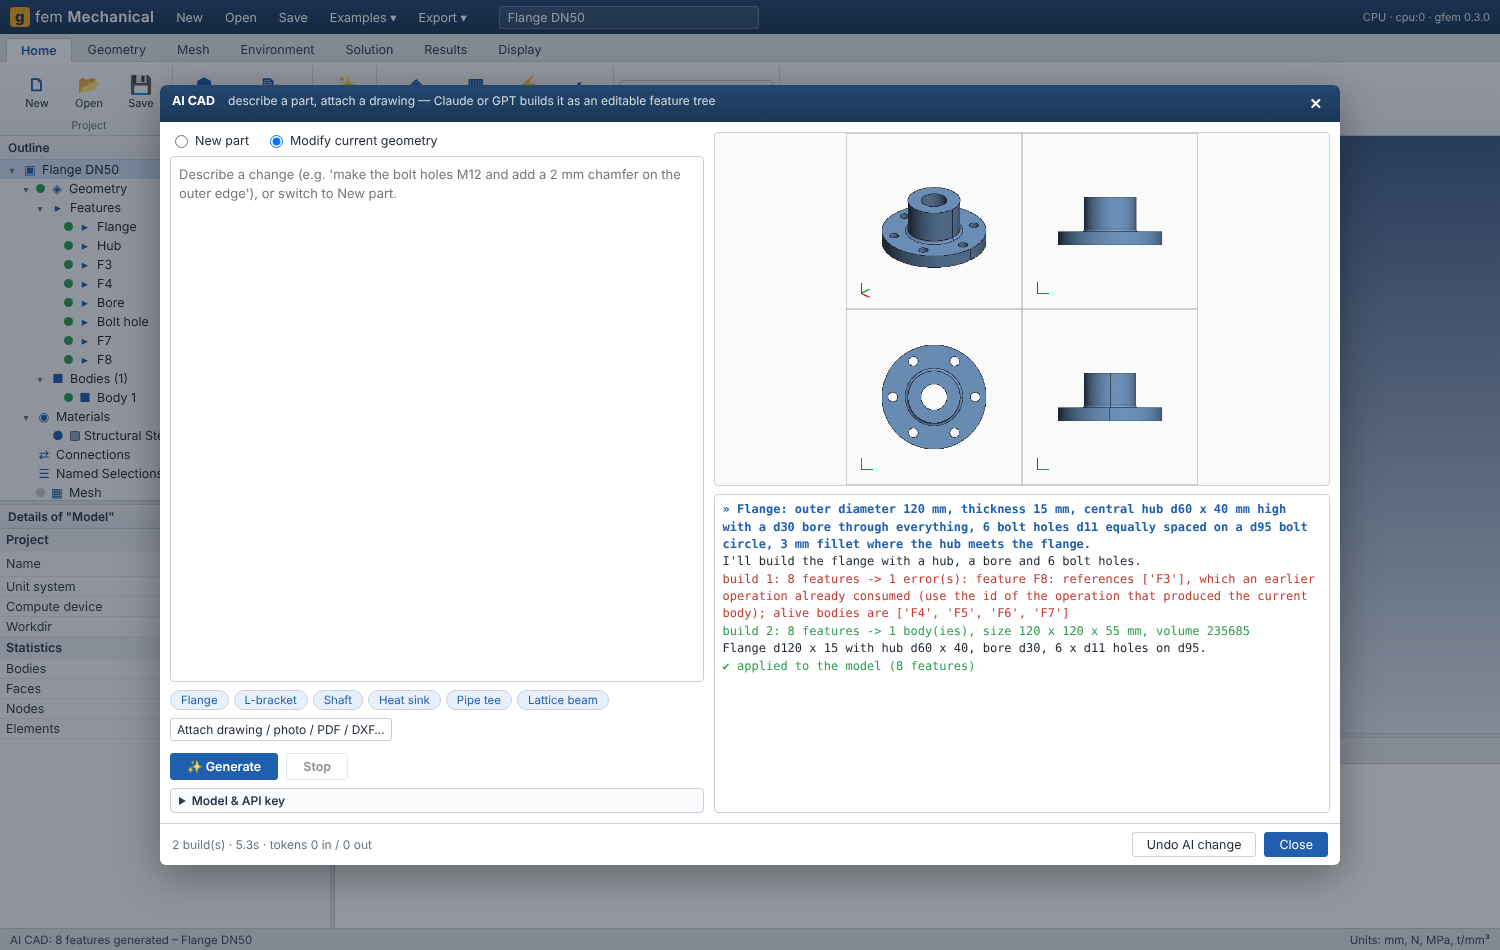
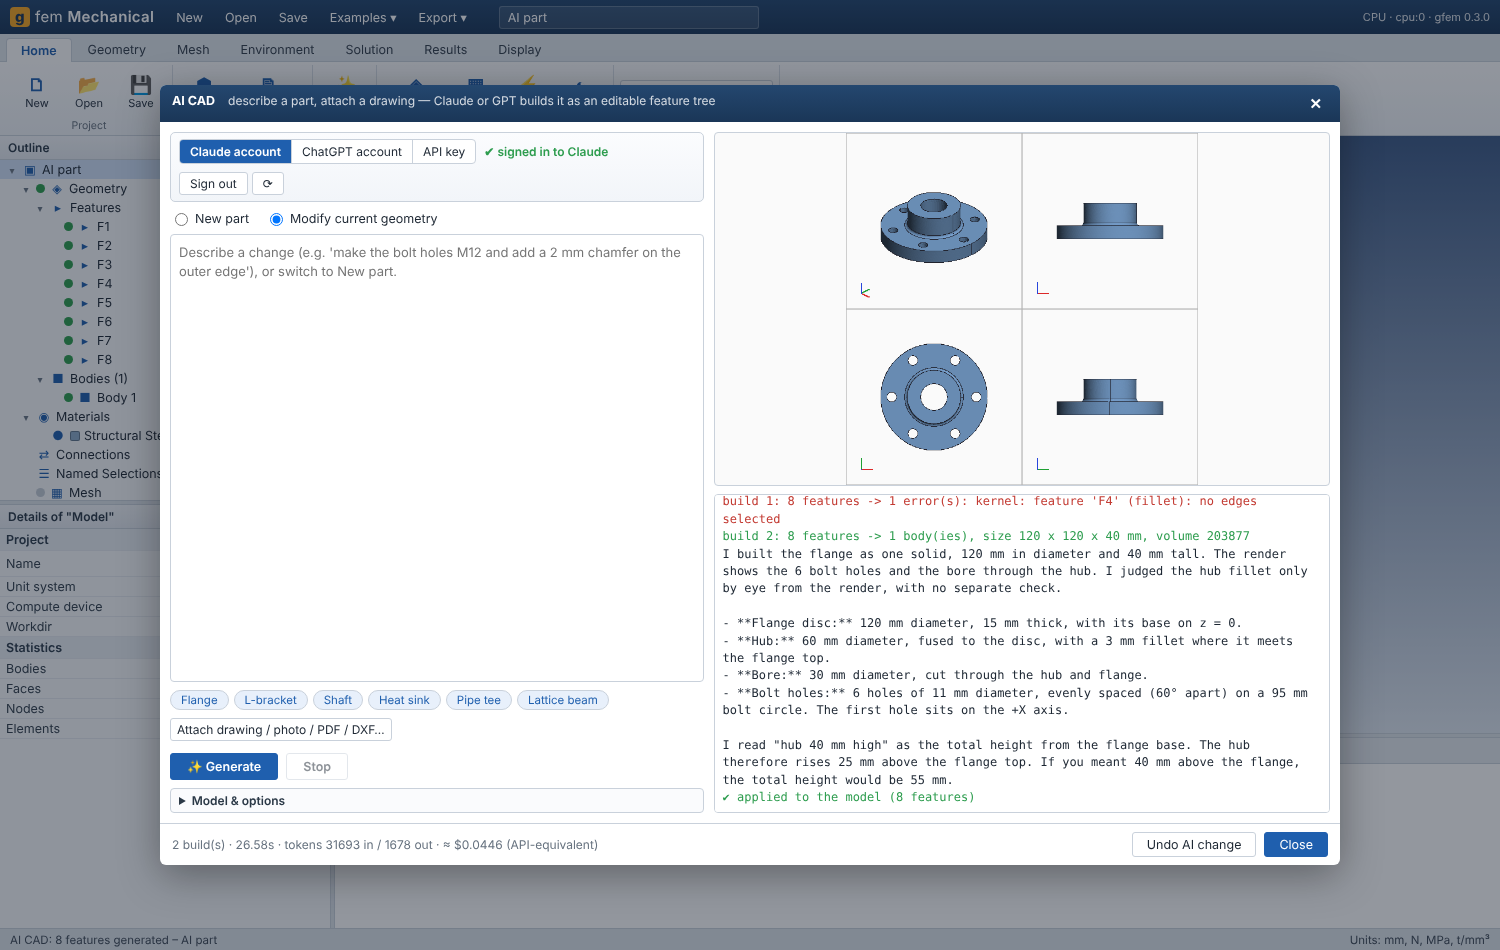
Docs: AI CAD/simulation with Claude or ChatGPT sign-in, examples/ai (prompts, drawing, demo script)
Claude-Session: https://claude.ai/code/session_01NFa47p5kK8Vtp3WfpvMiuR

diff --git a/examples/ai/ai_demo.py b/examples/ai/ai_demo.py
@@ -1,0 +1,36 @@
+"""AI CAD + AI simulation from Python (uses your signed-in Claude account by default).
+
+    python examples/ai/ai_demo.py [claude-cli|codex-cli|anthropic|openai]
+"""
+import os
+import sys
+
+from gfem import project as P
+from gfem.cad import ai as AI
+from gfem.cad import CadModel
+
+provider = sys.argv[1] if len(sys.argv) > 1 else "claude-cli"
+here = os.path.dirname(os.path.abspath(__file__))
+
+# 1. a part from a description
+r = AI.generate("A 100 x 60 x 10 mm mounting plate with four d8 holes 10 mm from the corners and a "
+                "central d30 boss 20 mm high with a d16 bore.", provider=provider, log=print)
+print("size", r["report"]["size"], "volume", r["report"]["volume"])
+
+# 2. a change in the same conversation
+r2 = AI.generate("Make the boss 30 mm high and add a 1 mm chamfer on its top edge.", provider=provider,
+                 base_features=r["features"], session=r.get("session"), log=print)
+cad = CadModel(r2["features"])
+cad.regenerate()
+cad.export(os.path.join(here, "mounting_plate.step"))
+
+# 3. a part from a drawing
+r3 = AI.generate("Model the part in the attached drawing.", provider=provider,
+                 attachments=[os.path.join(here, "plate_drawing.png")], log=print)
+print("drawing part volume", r3["report"]["volume"], "(expected 74921)")
+
+# 4. a complete simulation with a design requirement
+r4 = AI.generate("Aluminium cantilever bar 200 mm long, 20 x 10 mm section, fixed at x=0, 100 N downward "
+                 "at the free end. Safety factor at least 3.", provider=provider, project=P.new_project("mm"), log=print)
+print("result", r4.get("solve_summary"))
+P.save(r4["project"], os.path.join(here, "cantilever.gfem.json"))

diff --git a/README.md b/README.md
@@ -226,76 +226,87 @@ Every CAD body, face, edge and vertex keeps its identity as a node/element set a
   Banded or smooth contours with an ANSYS-style legend, Max/Min markers, a deformation scale
   (auto/true/×N), animation of load history and mode shapes, probes, and tabular and graph views.
 - **Export**: Abaqus `.inp`, Nastran `.bdf`, STEP, STL, ParaView `.vtu`, CSV, PNG.
-- **AI CAD**: describe a part or attach a drawing; Claude / GPT builds it as a feature tree,
-  checks it against rendered views and measurements, and refines it on request.
+- **AI CAD / AI simulation**: sign in with a Claude or ChatGPT account (or use an API key);
+  describe a part or attach a drawing, and the model builds it, checks it against measurements
+  and rendered views, and in Simulate mode sets up, solves and checks the analysis.
 - **Examples**: L-bracket, plate with hole (Kt), cantilever modal, column buckling, heat-sink
   thermal-stress, topology optimisation, punch contact, rubber pad (hyperelastic NLGEOM).
 
-## AI CAD (text-to-CAD with Claude or GPT)
+## AI CAD and AI simulation (Claude or ChatGPT)
 
-Describe a part in plain language (any language), or attach a drawing (photo, screenshot, PDF, DXF),
-and an LLM builds it as a normal, editable gfem feature tree. Open it from **Home > AI CAD** or
-**Geometry > AI CAD**, or use the command line.
+Describe a part in plain language (any language) or attach a drawing (photo, screenshot, PDF, DXF).
+The model builds the part as a normal, editable gfem feature tree. In **Simulate** mode it also
+assigns materials, places supports and loads on the right faces, meshes, solves, reads the results
+and iterates until your requirement is met ("safety factor at least 2: make it thicker if not").
+Open it from **Home > AI CAD** or **Geometry > AI CAD**, or use `gfem ai` on the command line.
 
 ![AI CAD](docs/img/ai_cad.png)
 
-How it works: the model never writes free-form code. It calls a single tool, `build_cad`, with a
-JSON feature list (box, cylinder, sketch extrude/revolve, boolean, fillet, chamfer, pattern ...).
-gfem checks every call in three stages and returns the result to the model:
-
-1. **Static validation**: types, numbers, self-intersecting sketches, profiles that cross the
-   revolve axis, and references to unknown or already-consumed bodies, each with a precise message.
-2. **OpenCASCADE regeneration**: kernel errors such as a fillet that is too large.
-3. **Measurement and preview**: bodies, volumes, bounding box, faces, and a rendered 4-view image
-   (iso, front, top, right).
-
-The model compares this with the request and corrects itself, usually in one or two extra builds.
-The result is applied to the project (**Undo AI change** restores the previous geometry). The
-dialog then switches to **Modify current geometry**, so you can keep refining in follow-up
-requests ("make the bolt holes M12", "add 2 mm chamfers on the outer edge").
-
-| Provider | Setting | Default model |
-|---|---|---|
-| Anthropic Claude | `ANTHROPIC_API_KEY` or key saved in the dialog | `claude-opus-5-5` (adaptive thinking, streaming) |
-| OpenAI GPT | `OPENAI_API_KEY` or key saved in the dialog | `gpt-5` (Chat Completions, function calling) |
-| OpenAI-compatible (Ollama, vLLM, LM Studio) | base URL, e.g. `http://localhost:11434/v1` | any local model |
-
-Keys are stored only on the computer that runs gfem (`~/.gfem/ai.json`, permissions 0600) and are
-never sent to the browser. The GUI server refuses cross-origin requests, so another web page cannot
-spend your credits.
-
-Install the SDKs:
+**Sign in instead of an API key.** Pick **Claude account** or **ChatGPT account** and press
+**Sign in**. The official sign-in page of Claude Code or OpenAI Codex opens in your browser; after you
+sign in (paste the code if the page shows one), requests use your Claude Pro / Max / Team or ChatGPT
+Plus / Pro / Team plan. gfem runs the official CLI with gfem's CAD and simulation tools attached
+over MCP, with the CLI's own shell and file tools switched off, so the model can only work on your gfem
+model. You need the CLI once:
 
 ```bash
-pip install -e ".[ai]"
+npm install -g @anthropic-ai/claude-code
 ```
 
-Generate a part from the command line:
+```bash
+npm install -g @openai/codex
+```
+
+API keys (Anthropic, OpenAI) and local OpenAI-compatible servers (Ollama, vLLM, LM Studio) work as
+well: choose **API key**.
+
+How it works. The model never writes free-form code; it calls gfem tools:
+
+| Tool | What gfem does |
+|---|---|
+| `build_cad` | static validation (numbers, self-intersecting sketches, profiles crossing a revolve axis, references to consumed bodies), OpenCASCADE regeneration, measurement (bodies, volume, bounding box), 4-view image |
+| `get_model` | bodies and faces (id, type, centre, outward normal, area) for picking faces |
+| `set_material`, `add_condition` | library or custom material; supports and loads on faces chosen by id or by filters (normal, box, type, area, nearest) |
+| `set_analysis`, `set_mesh`, `solve` | any gfem analysis; returns max deformation, max stress and its location, safety factor, reactions, frequencies, load factors, and a contour image |
+
+Every result goes back to the model, which checks it against your request and corrects itself.
+Conditions created with a face filter are re-applied after a geometry change; a condition that no
+longer selects anything blocks the solve. The result is applied to your project (**Undo AI change**
+restores the previous state), and follow-up requests continue the same conversation.
+
+![AI simulation](docs/img/ai_simulate.png)
+
+Command line:
+
+```bash
+gfem ai --login claude-cli
+```
 
 ```bash
 gfem ai "flange d120 x 15 mm, hub d60 x 40 with d30 bore, 6 bolt holes d11 on a d95 circle" -o flange.step
 ```
 
-From a drawing, writing a GUI project and a preview image:
-
 ```bash
 gfem ai "model the part in this drawing, plate thickness 8 mm" --attach drawing.png -o part.gfem.json --preview part.png
 ```
 
-Modify an existing project:
-
 ```bash
-gfem ai "make all holes 2 mm larger" --modify part.gfem.json -o part_v2.gfem.json
+gfem ai "aluminium cantilever 200 x 20 x 10, fixed at x=0, 100 N down at the tip; safety factor >= 3" --simulate -o study.gfem.json
 ```
 
-Store a key once (it is read from the prompt or stdin):
-
 ```bash
-gfem ai --set-key anthropic
+gfem ai --status
 ```
 
-Python API: `gfem.cad.ai.generate(prompt, provider="anthropic", attachments=[...])` returns the
-feature list, a summary, the measurement report and the preview PNG.
+The gfem tools can also be added to your own Claude Code or Codex sessions:
+
+```bash
+claude mcp add gfem -- python -m gfem.cad.mcp_server
+```
+
+API keys are stored only on the computer that runs gfem (`~/.gfem/ai.json`, permissions 0600) and are
+never sent to the browser. The GUI server refuses cross-origin requests, so another web page cannot
+use your account or credits.
 
 ## Python API
 

diff --git a/examples/ai/README.md b/examples/ai/README.md
@@ -1,0 +1,38 @@
+# AI CAD / AI simulation examples
+
+Sign in once (or set an API key), then use the GUI (**AI CAD**) or the command line.
+
+```bash
+gfem ai --login claude-cli
+```
+
+## Prompts that work well
+
+**CAD**
+- Flange: outer diameter 120 mm, thickness 15 mm, central hub d60 x 40 mm high with a d30 bore through everything, 6 bolt holes d11 equally spaced on a d95 bolt circle, 3 mm fillet where the hub meets the flange.
+- L-shaped steel bracket, 5 mm plate, horizontal leg 80 x 60 mm, vertical leg 60 mm high, one triangular gusset 40 x 40 mm in the middle, two d9 holes in each leg, 3 mm inner bend fillet.
+- Stepped shaft along X: d40 x 60 long, then d30 x 80, then d25 x 40, 1 mm chamfers on the ends, a 8 x 4 mm keyway 40 mm long on the d30 section.
+- Model the part in the attached drawing. (attach `plate_drawing.png`: 120 x 80 x 10 plate, expected volume 74 921 mm³)
+
+**Follow-up changes** (Modify mode, same conversation)
+- Make the bolt holes M12 clearance (d13) and add a 1 mm chamfer on the outer edge.
+- Add a second identical hole 25 mm to the right of the first one.
+
+**Simulation** (Simulate mode or `--simulate`)
+- Aluminium cantilever bar 200 mm long, 20 x 10 mm section, fixed at x=0, 100 N downward on the free end. Safety factor at least 3; compare the deflection with beam theory.
+- Steel L-bracket: 6 mm plate, base leg 100 x 60 mm on z=0, vertical leg 80 mm high at x=0, two d10 bolt holes in the base. Bolt holes fixed, 1500 N downward on the top face of the vertical leg. Safety factor >= 2; if not met, make the plate thicker and solve again.
+- First three natural frequencies of a 300 x 30 x 3 mm steel cantilever strip; the first one must stay above 50 Hz.
+
+## Command line
+
+```bash
+gfem ai "model the part in this drawing" --attach examples/ai/plate_drawing.png -o plate.step --preview plate.png
+```
+
+```bash
+gfem ai "aluminium cantilever 200 x 20 x 10, fixed at x=0, 100 N down at the tip; safety factor >= 3" --simulate -o cantilever.gfem.json
+```
+
+## Python
+
+`ai_demo.py` generates a part, modifies it in the same conversation, and runs a simulation.

diff --git a/examples/README.md b/examples/README.md
@@ -1,5 +1,7 @@
 # Examples
 
+AI CAD / AI simulation (Claude or ChatGPT sign-in): see [ai/README.md](ai/README.md).
+
 ## 1. GUI projects (`projects/`)
 Start the GUI (`gfem gui`), then **Open** a project file, or pick the same model from the
 **Examples** menu, and press **Solve (F5)**.
